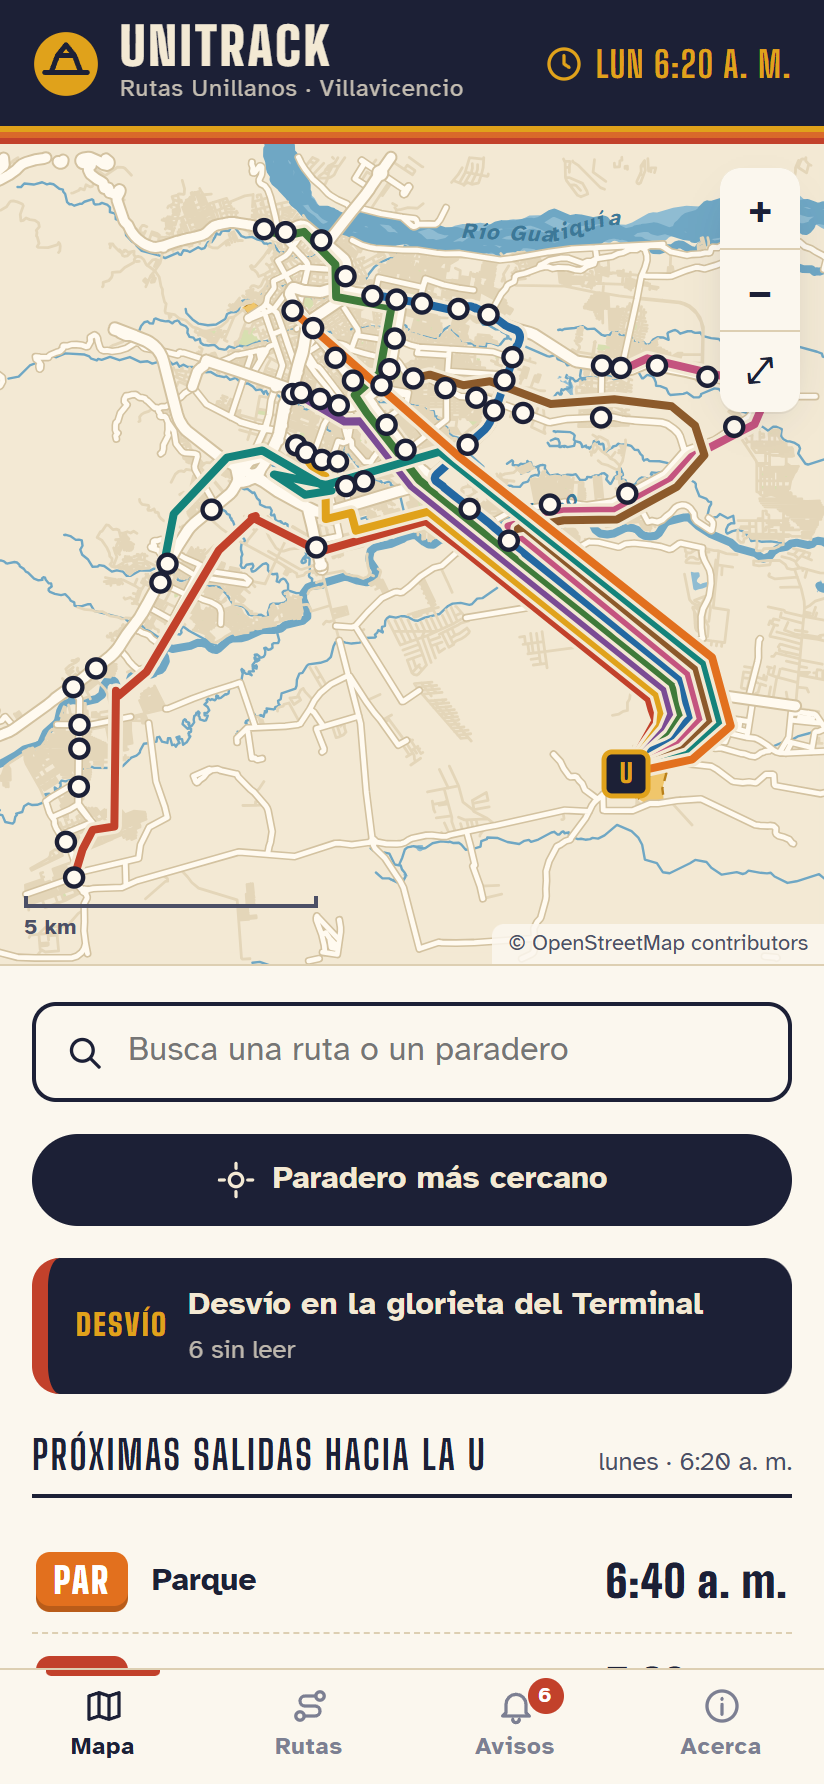
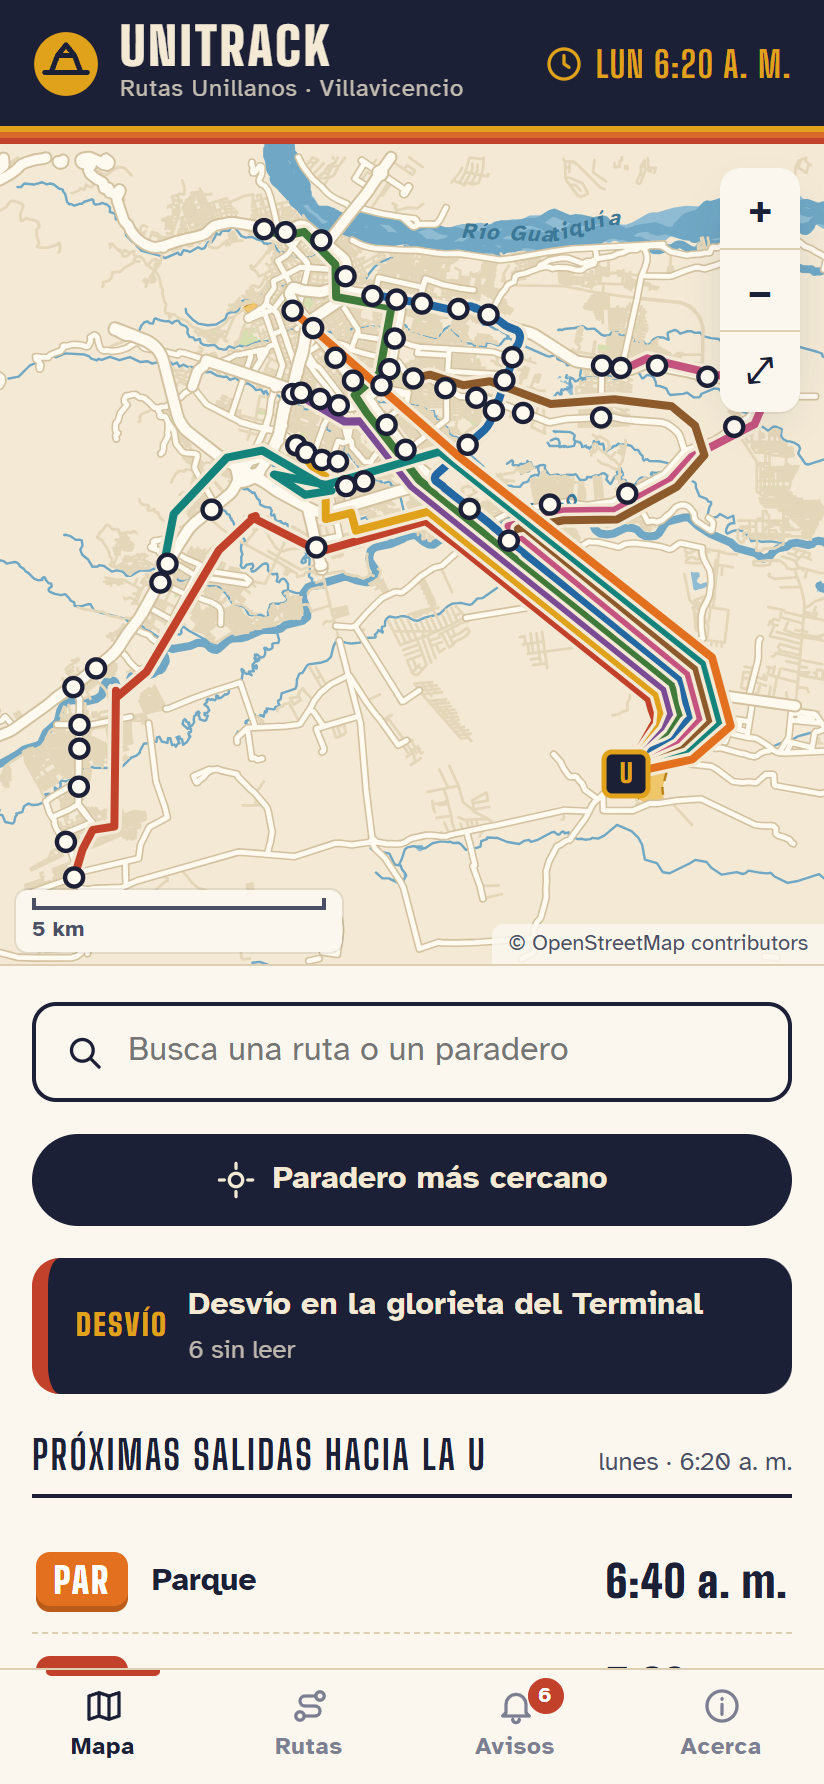
fix(map): keep the scale bar legible over basemap labels
Give the scale bar an opaque plate like the attribution so neighbourhood
labels underneath no longer show through it, and re-capture the
screenshots.

Changed region(s): [[0.0, 0.4933, 0.4248, 0.5549]]

diff --git a/src/styles.css b/src/styles.css
@@ -572,10 +572,14 @@ h3 {
 
 .map-scale {
   position: absolute;
-  left: 12px;
-  bottom: 10px;
+  left: 8px;
+  bottom: 6px;
   display: grid;
   gap: 2px;
+  padding: 4px 8px 3px;
+  border-radius: 6px;
+  background: var(--surface);
+  box-shadow: 0 0 0 1px rgb(28 32 54 / 0.08);
   font-size: 11px;
   font-weight: 700;
   color: var(--ink-soft);
@@ -600,8 +604,9 @@ h3 {
 }
 
 @media (prefers-color-scheme: dark) {
-  .map-attribution {
-    background: rgb(27 31 49 / 0.85);
+  .map-attribution,
+  .map-scale {
+    background: var(--surface);
   }
 
   .map-stop {
